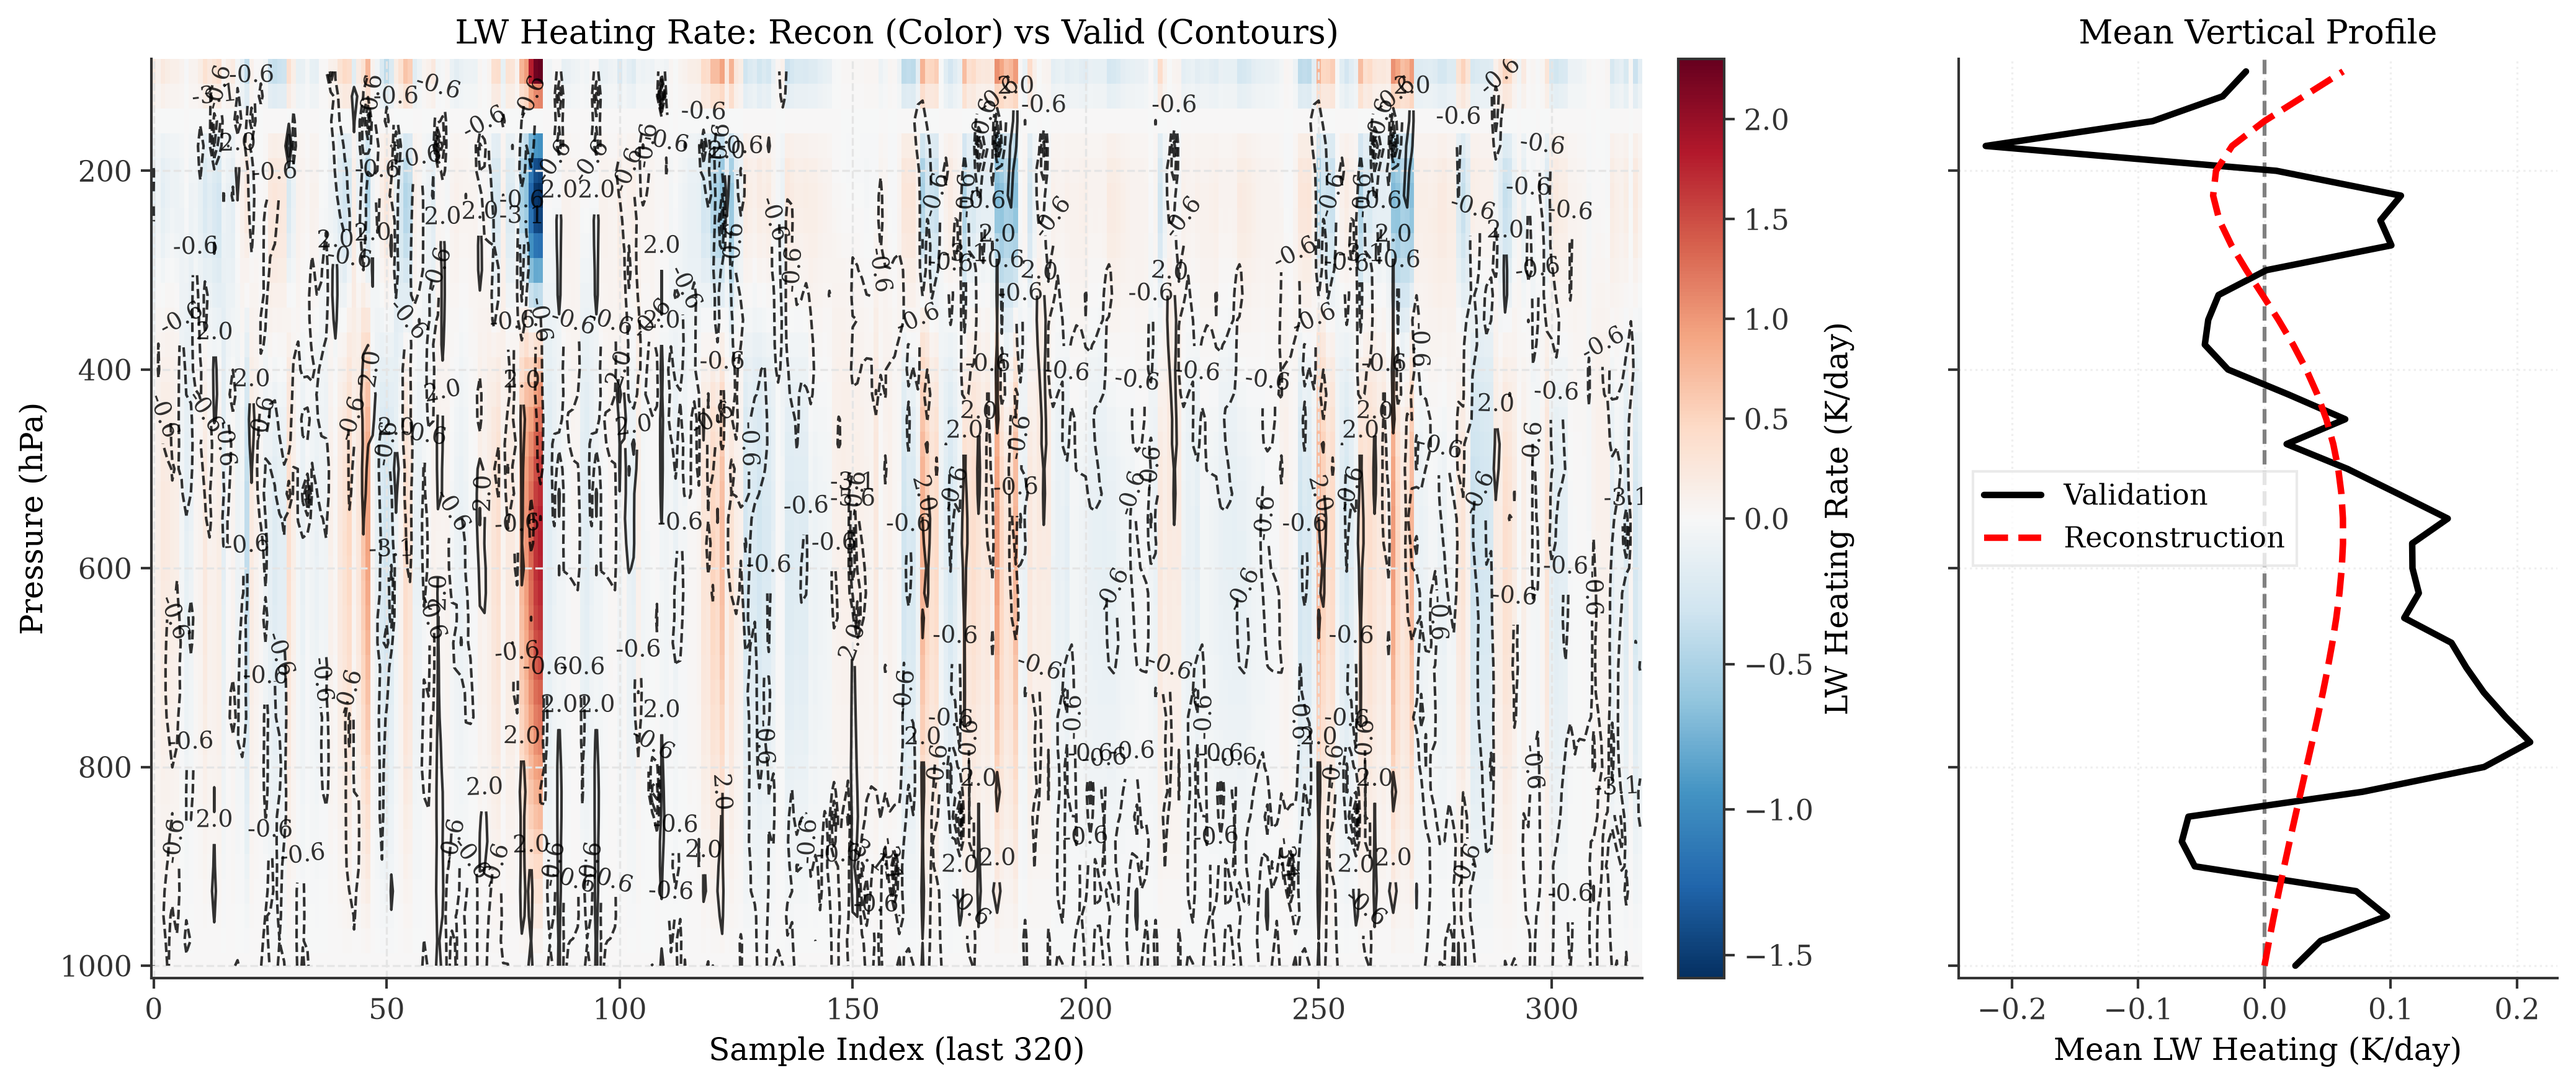
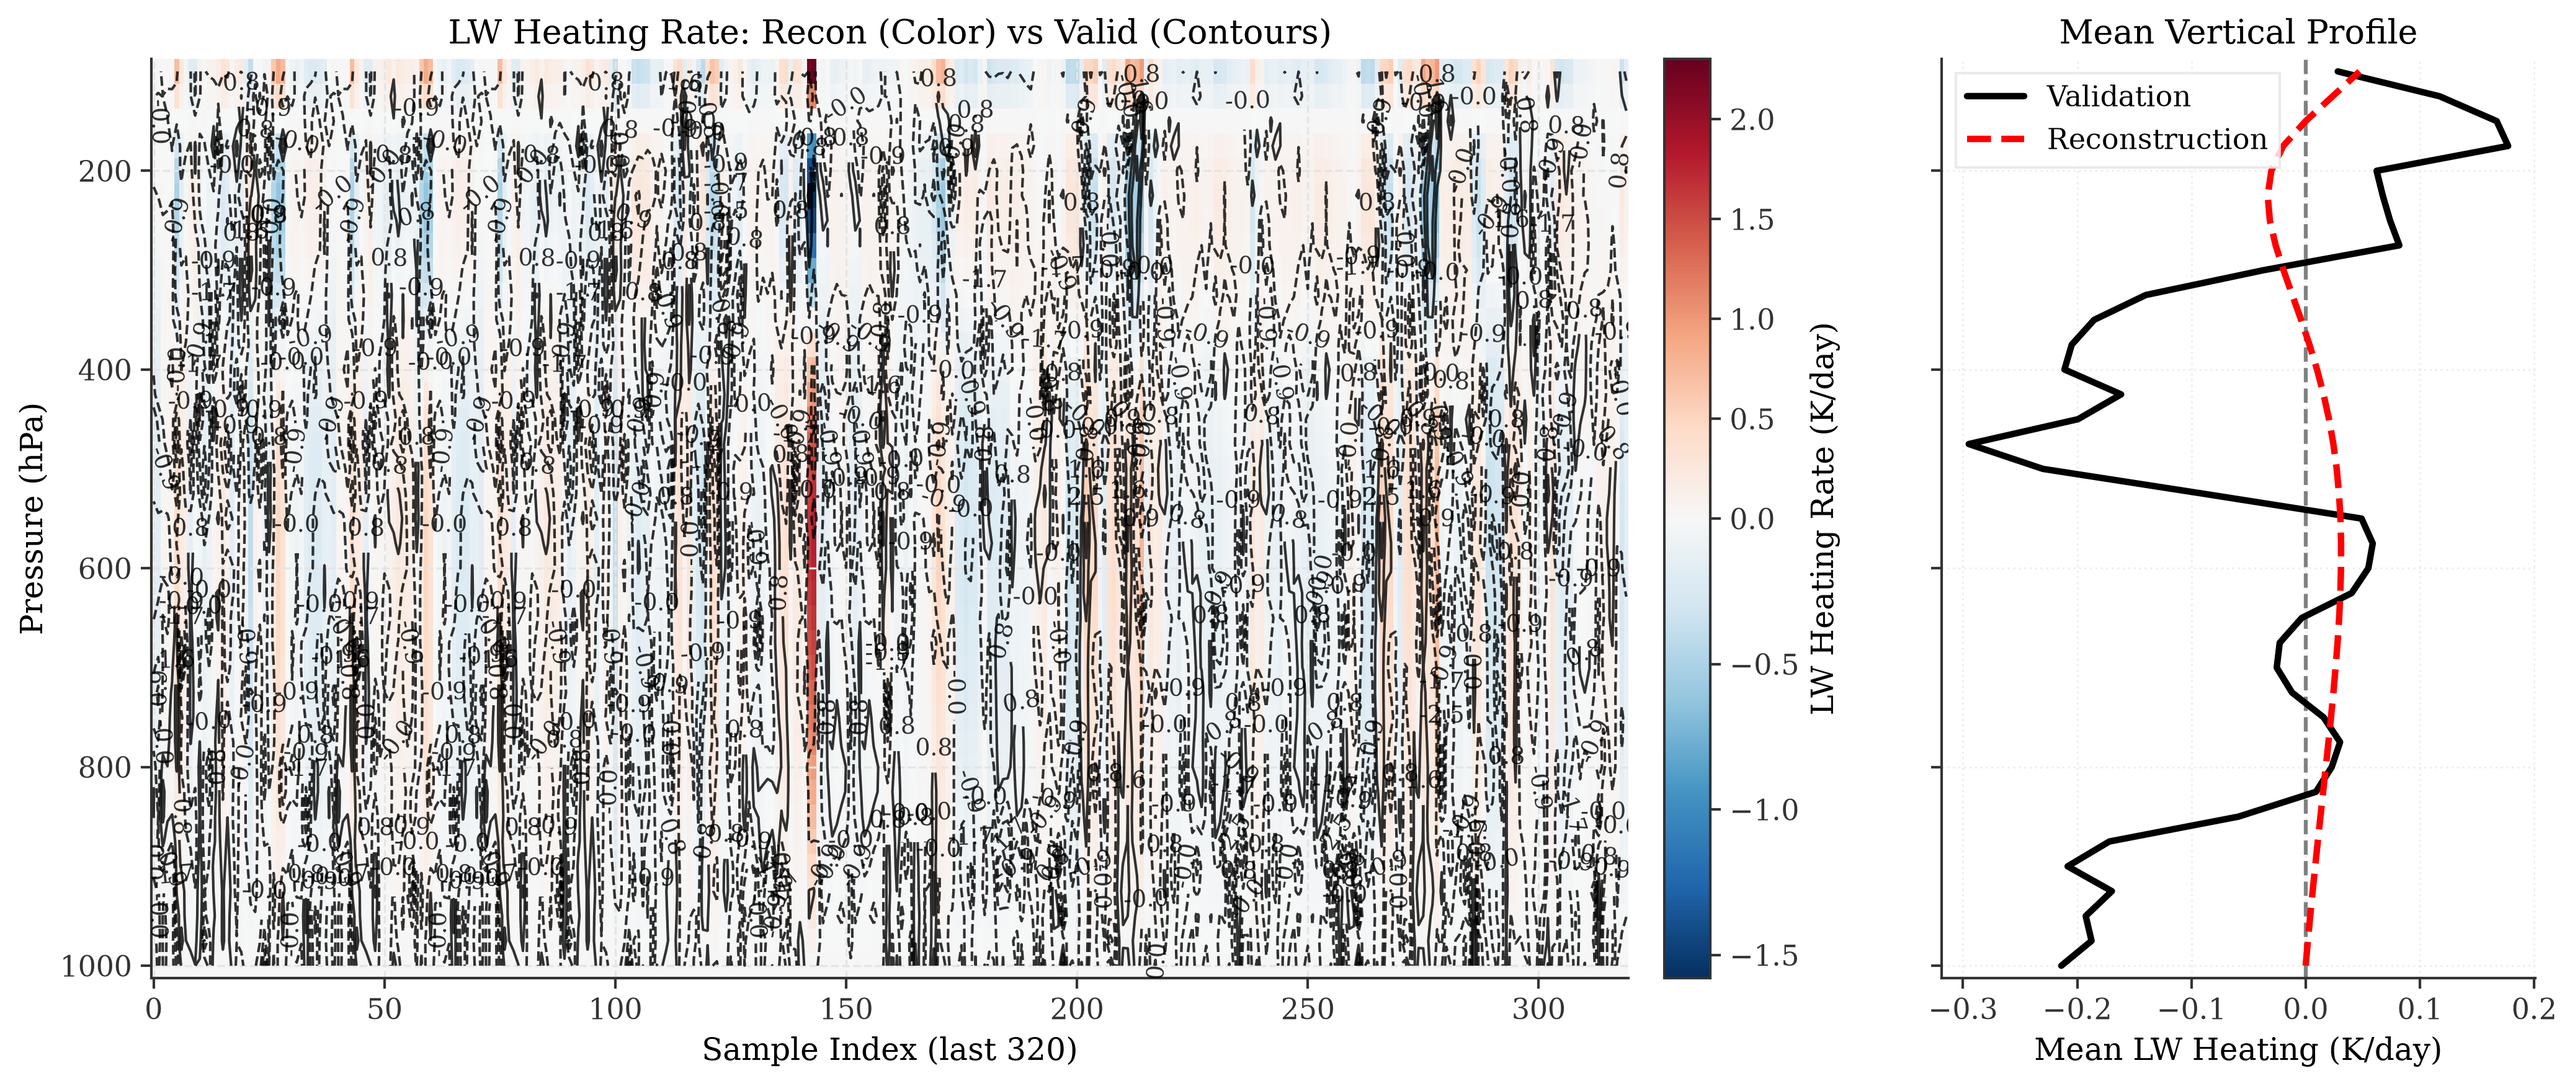
feat: implement 3-sigma outlier filtering and overhaul documentation
- Filter LW and SW heating outliers exceeding 3 standard deviations in the verification step
- Overhaul README.md to detail the new pipeline architecture and execution modes (Concat vs. Composite)
- Add type annotations and ignore directives to resolve static type checking warnings

diff --git a/Code/Rad_mode_predict.py b/Code/Rad_mode_predict.py
@@ -80,8 +80,8 @@ def main(data_type: str) -> None:
 
     p_era5 : np.ndarray = np.linspace(1000.0, 100.0, 37) # pressure level in ERA5
 
-    w1_era5: np.ndarray = interp1d(p/100.0, w1, fill_value="extrapolate")(p_era5)
-    w2_era5: np.ndarray = interp1d(p/100.0, w2, fill_value="extrapolate")(p_era5)
+    w1_era5: np.ndarray = interp1d(p/100.0, w1, fill_value="extrapolate")(p_era5) #type: ignore
+    w2_era5: np.ndarray = interp1d(p/100.0, w2, fill_value="extrapolate")(p_era5) #type: ignore
     # ------------------------------------------------
     # predict radiation through Jacobian Matrix
     # ------------------------------------------------
@@ -97,11 +97,11 @@ def main(data_type: str) -> None:
     # coordinate
     # ------------------------------------------------
 
-    lw_w1: np.ndarray = interp1d(p_era5, lw_w1_era5, fill_value="extrapolate")(p/100.0)
-    sw_w1: np.ndarray = interp1d(p_era5, sw_w1_era5, fill_value="extrapolate")(p/100.0)
+    lw_w1: np.ndarray = interp1d(p_era5, lw_w1_era5, fill_value="extrapolate")(p/100.0)  # type: ignore
+    sw_w1: np.ndarray = interp1d(p_era5, sw_w1_era5, fill_value="extrapolate")(p/100.0)  # type: ignore
 
-    lw_w2: np.ndarray = interp1d(p_era5, lw_w2_era5, fill_value="extrapolate")(p/100.0)
-    sw_w2: np.ndarray = interp1d(p_era5, sw_w2_era5, fill_value="extrapolate")(p/100.0)
+    lw_w2: np.ndarray = interp1d(p_era5, lw_w2_era5, fill_value="extrapolate")(p/100.0)  # type: ignore
+    sw_w2: np.ndarray = interp1d(p_era5, sw_w2_era5, fill_value="extrapolate")(p/100.0)  # type: ignore
 
     # ------------------------------------------------
     # Decompose radiative heating rate

diff --git a/Code/Rad_mode_verification.py b/Code/Rad_mode_verification.py
@@ -113,13 +113,21 @@ def main(data_type: str) -> None:
             lw_concat: np.ndarray = np.concatenate([lw_valid[k].transpose(0, 2, 1).reshape(-1, nz) for k in keys], axis=0)
             sw_concat: np.ndarray = np.concatenate([sw_valid[k].transpose(0, 2, 1).reshape(-1, nz) for k in keys], axis=0)
 
-            lw_non_nan : np.ndarray = np.all(~np.isnan(lw_concat), axis=1)
-            sw_non_nan : np.ndarray = np.all(~np.isnan(sw_concat), axis=1)
+            lw_non_nan : np.ndarray = np.array(np.all(~np.isnan(lw_concat), axis=1))
+            sw_non_nan : np.ndarray = np.array(np.all(~np.isnan(sw_concat), axis=1))
             non_nan_idx: np.ndarray = lw_non_nan & sw_non_nan
 
-            w_concat = w_concat[non_nan_idx]
-            lw_concat = lw_concat[non_nan_idx]
-            sw_concat = sw_concat[non_nan_idx]
+            # Calculate standard derivation in LW and SW heating
+            lw_std: float = float(np.nanstd(lw_concat[non_nan_idx, :]))
+            sw_std: float = float(np.nanstd(sw_concat[non_nan_idx, :]))
+
+            lw_norm_idx: np.ndarray = np.all(np.abs(lw_concat[non_nan_idx, :]) < 3 * lw_std, axis=1)
+            sw_norm_idx: np.ndarray = np.all(np.abs(sw_concat[non_nan_idx, :]) < 3 * sw_std, axis=1) 
+            norm_idx: np.ndarray = lw_norm_idx & sw_norm_idx
+
+            w_concat = w_concat[non_nan_idx, :][norm_idx, :]
+            lw_concat = lw_concat[non_nan_idx, :][norm_idx, :]
+            sw_concat = sw_concat[non_nan_idx, :][norm_idx, :]
 
         case "composite":
             w_concat: np.ndarray = np.concatenate([w[k].T for k in keys])

diff --git a/README.md b/README.md
@@ -1,106 +1,92 @@
-# KW_CloudSat: Kelvin Wave Radiative-Dynamic Coupling Analysis
+# KW_CloudSat: Kelvin Wave Radiative-Dynamic Coupling Pipeline
 
-This project investigates the radiative-dynamic coupling associated with equatorially trapped Kelvin Waves (KWs). By combining Satellite Outgoing Longwave Radiation (OLR), ERA5 Reanalysis kinematics, and CloudSat radiative heating profiles, we isolate KW events and extract the linear relationship between vertical motion ($w$) and radiative heating rates ($Q_{LW}$, $Q_{SW}$).
+## 1. Introduction
 
-## 1. Datasets and Variables
+The **KW_CloudSat** project is a data analysis pipeline designed to quantify the radiative-dynamic coupling of equatorially trapped Kelvin Waves (KWs). By synthesizing satellite observations and atmospheric reanalysis data, the system extracts the linear transfer function between kinematic vertical motion ($w$) and atmospheric radiative heating rates ($Q_{LW}$, $Q_{SW}$).
 
-The project synthesizes three major datasets over the period of 2006–2017 for the equatorial band (5°S–5°N).
+To provide a robust evaluation under different signal-to-noise ratios, the pipeline implements two distinct analytical procedures: **Concat** (retaining event-to-event variance) and **Composite** (averaging to isolate the mean wave signal).
 
-*   **Satellite OLR Data:**
-    *   **Variable:** Outgoing Longwave Radiation (OLR) Anomaly.
-    *   **Purpose:** To filter and identify convectively coupled Kelvin wave events.
-*   **ERA5 Reanalysis:**
-    *   **Variables:** Pressure velocity ($\omega$) and Temperature ($T$).
-    *   **Purpose:** To derive kinematic vertical velocity ($w$) and provide atmospheric dynamic context.
-*   **CloudSat (Gridded):**
-    *   **Variables:** Longwave Heating Rate ($Q_{LW}$) and Shortwave Heating Rate ($Q_{SW}$).
-    *   **Purpose:** To provide vertical profiles of radiative heating rates associated with the KW events.
+## 2. Data Architecture
 
-## 2. Methodology
+The pipeline ingests and synthesizes three primary datasets covering the equatorial band (5°S–5°N) for the 2006–2017 period:
 
-The analysis is broken down into a five-step pipeline, implemented in the `Code/` directory:
+*   **Satellite OLR (Outgoing Longwave Radiation):** Acts as the primary signal to filter and identify convectively coupled Kelvin wave events.
+*   **ERA5 Reanalysis:** Provides background kinematic data. Pressure velocity ($\omega$) and Temperature ($T$) are ingested to derive physical vertical velocity ($w$).
+*   **CloudSat 2B-FLXHR-LIDAR:** Gridded vertical profiles of Longwave ($Q_{LW}$) and Shortwave ($Q_{SW}$) heating rates associated with the KW events.
 
-### Step 1: Kelvin Wave Event Selection (`Code/KW_selection.py`)
-*   **Filtering:** OLR data is symmetrized around the equator and passed through a Space-Time filter to isolate Kelvin waves (equivalent depth $h = 8-90$ m, period $T = 2.5-30$ days, varying wavenumber bands $k$).
-*   **Event Identification:** A local minimum filter (7 days $\times$ 31 degrees footprint) is applied. Events are flagged where the filtered OLR reaches a local minimum and exceeds a significance threshold ($-2.77\sigma$).
+## 3. Methodology & Pipeline Architecture
 
-### Step 2 & 3: Compositing Dynamics and Radiative Heating (`Code/ERA5_composite.py`, `Code/QR_composite.py`)
-*   Using the indices identified in Step 1, we extract and composite the ERA5 thermodynamic fields and CloudSat radiative heating profiles.
-*   For ERA5, pressure velocity ($\omega$) is converted to vertical velocity ($w$) using the ideal gas law and temperature profiles.
-*   The composited fields are convolved over longitude for smoothing.
+The system executes a multi-stage data processing pipeline located in the `Code/` directory.
 
-### Step 4: Extracting Linear Relations via PLS Regression (`Code/QR_w_Relation.py`)
-*   We attempt to express the radiative heating anomalies ($Q'_{LW}$, $Q'_{SW}$) as a linear map of the vertical motion profile ($w'$).
-*   **Model:** Partial Least Squares (PLS) regression (with 5 components) is applied to extract the Jacobian matrices ($M_{LW}$ and $M_{SW}$), where $Q' \approx M w'$.
-*   The dataset is split into training and validation sets to verify the robustness of the reconstruction.
+### Phase 1: Event Identification (`Code/KW_selection.py`)
+*   **Filtering:** Symmetrizes OLR data across the equator and applies a Space-Time bandpass filter targeting the theoretical Kelvin wave dispersion curves (equivalent depth $h = 8-90$ m, period $T = 2.5-30$ days).
+*   **Triggering:** Uses a 2D minimum filter (7 days $\times$ 31 degrees) to detect local minima. An event is flagged if it passes a $-2.77\sigma$ significance threshold.
 
-### Step 5: Radiative Heating Mode Prediction (`Code/Rad_mode_predict.py`)
-*   To further validate and interpret the linear relations, we construct idealized vertical motion profiles representing the first and second baroclinic modes (Mode 1 and Mode 2).
-*   We apply the extracted Jacobian matrices to these idealized profiles to predict the associated radiative heating responses.
-*   The original and reconstructed profiles are then compared to visualize the coupling between distinct vertical dynamic modes and radiative heating.
+### Phase 2: Data Extraction & Preprocessing (`Code/ERA5_composite.py`, `Code/QR_composite.py`)
+*   Extracts 3D spatial subsets of ERA5 and CloudSat data corresponding to the identified KW event indices.
+*   Performs thermodynamic conversions (e.g., $\omega$ to $w$ via the ideal gas law).
+*   Applies a 1D spatial convolution over longitude to smooth the extracted fields.
 
-### Step 6: Radiative Heating Mode Verification (`Code/Rad_mode_verification.py`)
-*   Provides an additional layer of verification by projecting the full vertically composed dataset onto the theoretical vertical basis modes.
-*   Reconstructs the spatial heating anomalies for the entire validation dataset to evaluate the predictive accuracy of the idealized modes.
+### Phase 3: Linear Mapping & Regression (`Code/QR_w_Relation.py`)
+*   **Objective:** Model radiative heating anomalies as a linear function of vertical motion: $Q' \approx M w'$.
+*   **Implementation:** Leverages Partial Least Squares (PLS) regression (n_components=5) to compute the Jacobian matrices ($M_{LW}$ and $M_{SW}$).
+*   Splits the data strictly into Training and Validation sets to prevent data leakage.
 
-## 3. Verification Metrics
+### Phase 4: Model Prediction & Verification (`Code/Rad_mode_predict.py`, `Code/Rad_mode_verification.py`)
+*   Projects the extracted Jacobian matrices onto idealized first and second baroclinic modes to predict idealized radiative responses.
+*   Reconstructs spatial heating anomalies on the validation dataset and evaluates the model against the true CloudSat observations.
 
-The reconstructed heating rates are evaluated against the true validation subsets from CloudSat. Several metrics and visualizations are utilized:
+## 4. Analytical Procedures: Concat vs. Composite
 
-### Correlation Profile
-The model's accuracy is evaluated vertically. We calculate the Pearson Correlation Coefficient ($R$) between the reconstructed and the true radiative heating at each pressure level.
+The pipeline can be executed in two distinct modes, controlled via a command-line argument. These modes dictate how the regression model treats the underlying data.
 
-![Correlation Profile](Figure/QR_w_Relation/corr_profile.png)
+### 4.1. Concat Procedure (`--mode concat`)
+*   **Mechanism:** All identified KW events are concatenated along a sequential axis. The PLS regression is trained on the raw, un-averaged timeseries.
+*   **Engineering Trade-offs:**
+    *   *Pros:* The model is exposed to the full variance of the dataset, including local convective blow-ups, non-linear interactions, and high-frequency weather noise.
+    *   *Cons:* The resulting Jacobian matrices ($M$) are inherently noisier. Overall correlation scores ($R^2$) are lower because predicting stochastic noise is difficult, but the model is more representative of raw physical variance.
 
-### Scatter and Overall Correlation
-The overall scatter of reconstruction against validation data provides the aggregate $R$ score for both Longwave and Shortwave components.
+### 4.2. Composite Procedure (`--mode composite`)
+*   **Mechanism:** All KW events are phase-aligned and averaged relative to lag 0. The PLS regression is trained on this single, smoothed "composite" wave footprint.
+*   **Engineering Trade-offs:**
+    *   *Pros:* Effectively cancels out random convective noise and isolates the "pure" theoretical Kelvin Wave signal. Results in highly accurate reconstructions and clean, deterministic Jacobian matrices.
+    *   *Cons:* Over-smooths the dataset. The resulting matrices may overestimate the linear predictability of real-time, individual weather events.
 
-![Scatter Verification](Figure/QR_w_Relation/verify.png)
+## 5. Execution
 
-### Cross-section Reconstruction vs. Validation
-We overlay the true validation data (contours) on top of the reconstructed data (color mesh) for the last 676 samples. This demonstrates the model's physical consistency in capturing the vertical tilt and structure of the heating rates.
+The pipeline is orchestrated via a bash script that handles environment variable configuration and module execution.
 
-![LW Reconstruction](Figure/QR_w_Relation/lw_reconstruct_overlay.png)
+```bash
+# Run the pipeline using the concatenated variance procedure
+./Code/run_analysis.sh --mode concat
 
-### Radiative Mode Prediction Contrast
-Using idealized vertical modes, we visualize the contrast between the original (derived via basis decomposition) and reconstructed (derived via the Jacobian matrices) profiles of the radiative heating rates. This highlights how well the model predicts the radiative responses to pure vertical dynamic modes.
+# Run the pipeline using the smoothed composite procedure
+./Code/run_analysis.sh --mode composite
+```
 
-![Radiative Mode Prediction](Figure/Rad_mode_predict.png)
+## 6. Verification Metrics
 
-### Mode Verification Scatter
-Scatter plot comparing the mode-reconstructed radiative heating profiles against the original CloudSat validating datasets, ensuring accuracy when filtered through the theoretical vertical modes.
+System performance is evaluated using the validation dataset against ground-truth CloudSat observations.
 
-![Mode Verification Scatter](Figure/Rad_mode_verification/scatter_verify.png)
+*   **Vertical Correlation Profile:** Assesses the Pearson Correlation Coefficient ($R$) as a function of pressure altitude.
+    <br>![Correlation Profile](Figure/QR_w_Relation/corr_profile.png)
 
-### Mode Verification Cross-section
-Overlay of the validating data (contours) on top of the mode-reconstructed data (color shading) over the last 320 samples, demonstrating structural consistency.
+*   **Global Scatter Verification:** Aggregate scatter plot of reconstructed versus true validation data.
+    <br>![Scatter Verification](Figure/QR_w_Relation/verify.png)
 
-**Longwave Heating Verification:**
-![LW Mode Verification](Figure/Rad_mode_verification/lw_reconstruct_overlay.png)
+*   **Spatial Cross-Section:** Validation truth (contours) overlaid on the model reconstruction (color mesh).
+    <br>![LW Reconstruction](Figure/QR_w_Relation/lw_reconstruct_overlay.png)
 
-**Shortwave Heating Verification:**
-![SW Mode Verification](Figure/Rad_mode_verification/sw_reconstruct_overlay.png)
+*   **Radiative Mode Prediction:** Contrast between empirical basis decomposition and the Jacobian matrix predictions on idealized vertical modes.
+    <br>![Radiative Mode Prediction](Figure/Rad_mode_predict.png)
 
-## 4. Quick Tour of Composite Structures
+## 7. System Outputs (Composite Wave Structure)
 
-To better understand the composited wave structure (e.g., for Wavenumber 1~13):
+Sample outputs generated by the pipeline illustrating the core Kelvin Wave composite structure:
 
-*   **KW OLR Composite:**
-    
-    ![OLR Composite](Figure/KW_olr/k=1~13/composite.png)
+*   **OLR Composite Anomaly:**
+    <br>![OLR Composite](Figure/KW_olr/k=1~13/composite.png)
 *   **Vertical Motion ($w$) Anomaly:**
-    
-    ![w Composite](Figure/w_composite/k=1~13.png)
-*   **Longwave and Shortwave Heating Anomalies:**
-    
-    ![QR Composite](Figure/QR_composite/k=1~13.png)
-
-## Appendix: Linear Regression Workflow (`QR_w_Relation.py`)
-
-The script computes the linear mapping between vertical motion ($w$) and radiative heating ($Q_{LW}$, $Q_{SW}$) via the following procedure:
-
-1. **Data Prep:** Loads, slices, and concatenates $w$, $Q_{LW}$, and $Q_{SW}$ arrays, splitting them into Training and Validation sets.
-2. **PLS Regression:** Trains Partial Least Squares (PLS) models (5 components) on the training set to map $w$ to heating rates.
-3. **Jacobian Extraction:** Extracts model coefficients as Jacobian matrices ($M_{LW}$, $M_{SW}$) that represent the linear transfer function ($Q' \approx M w'$).
-4. **Validation:** Reconstructs heating anomalies on the validation set, generating visual evaluations (heatmaps, correlation profiles, scatter plots, and cross-section overlays).
-5. **Output:** Saves the Jacobian matrices as numpy binaries for downstream mode predictions.
+    <br>![w Composite](Figure/w_composite/k=1~13.png)
+*   **Radiative Heating ($Q$) Anomalies:**
+    <br>![QR Composite](Figure/QR_composite/k=1~13.png)
